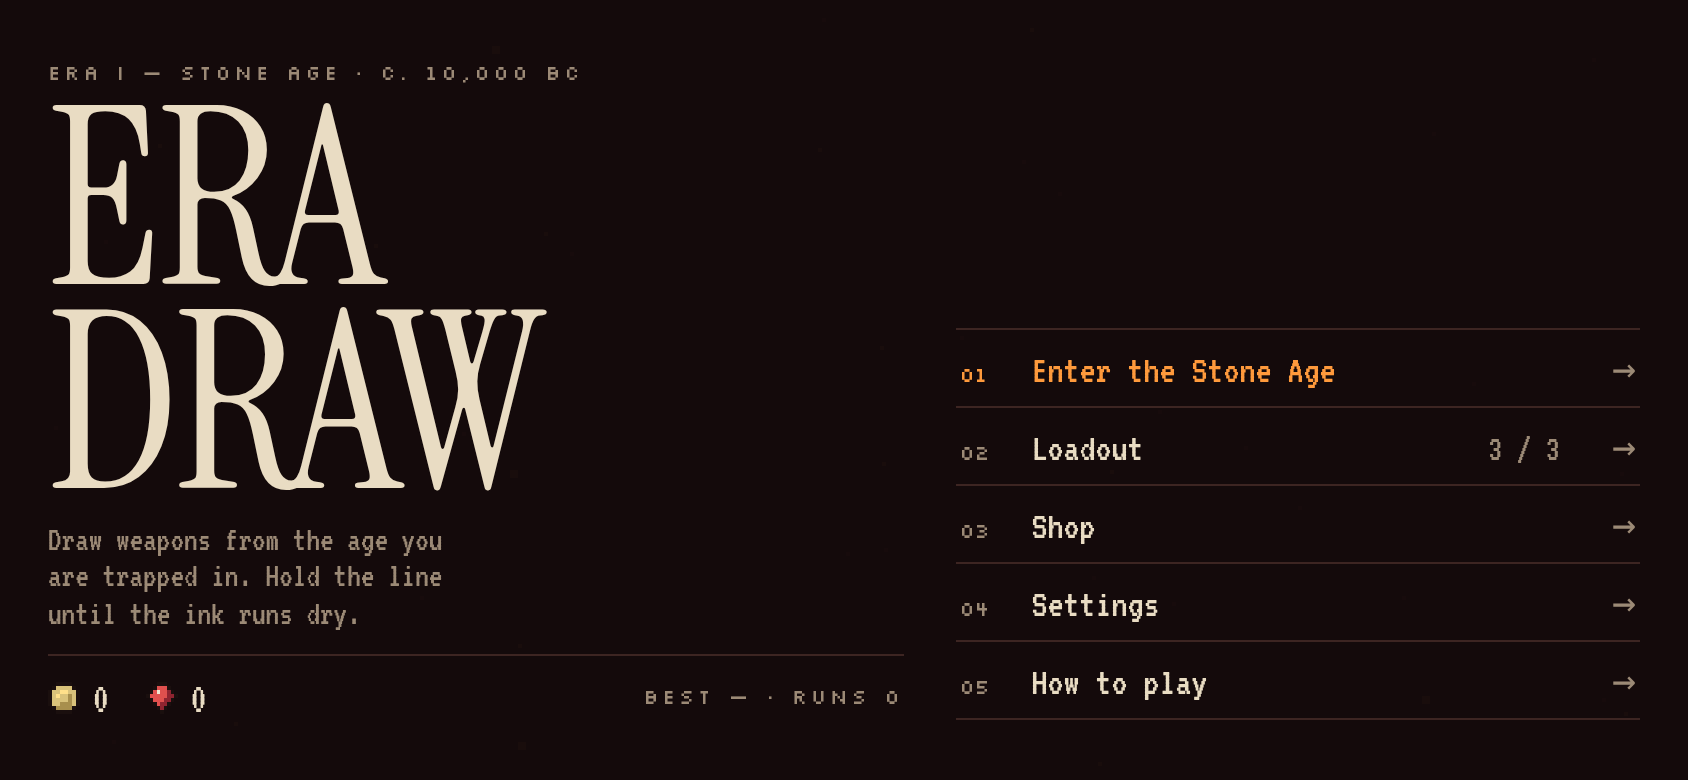
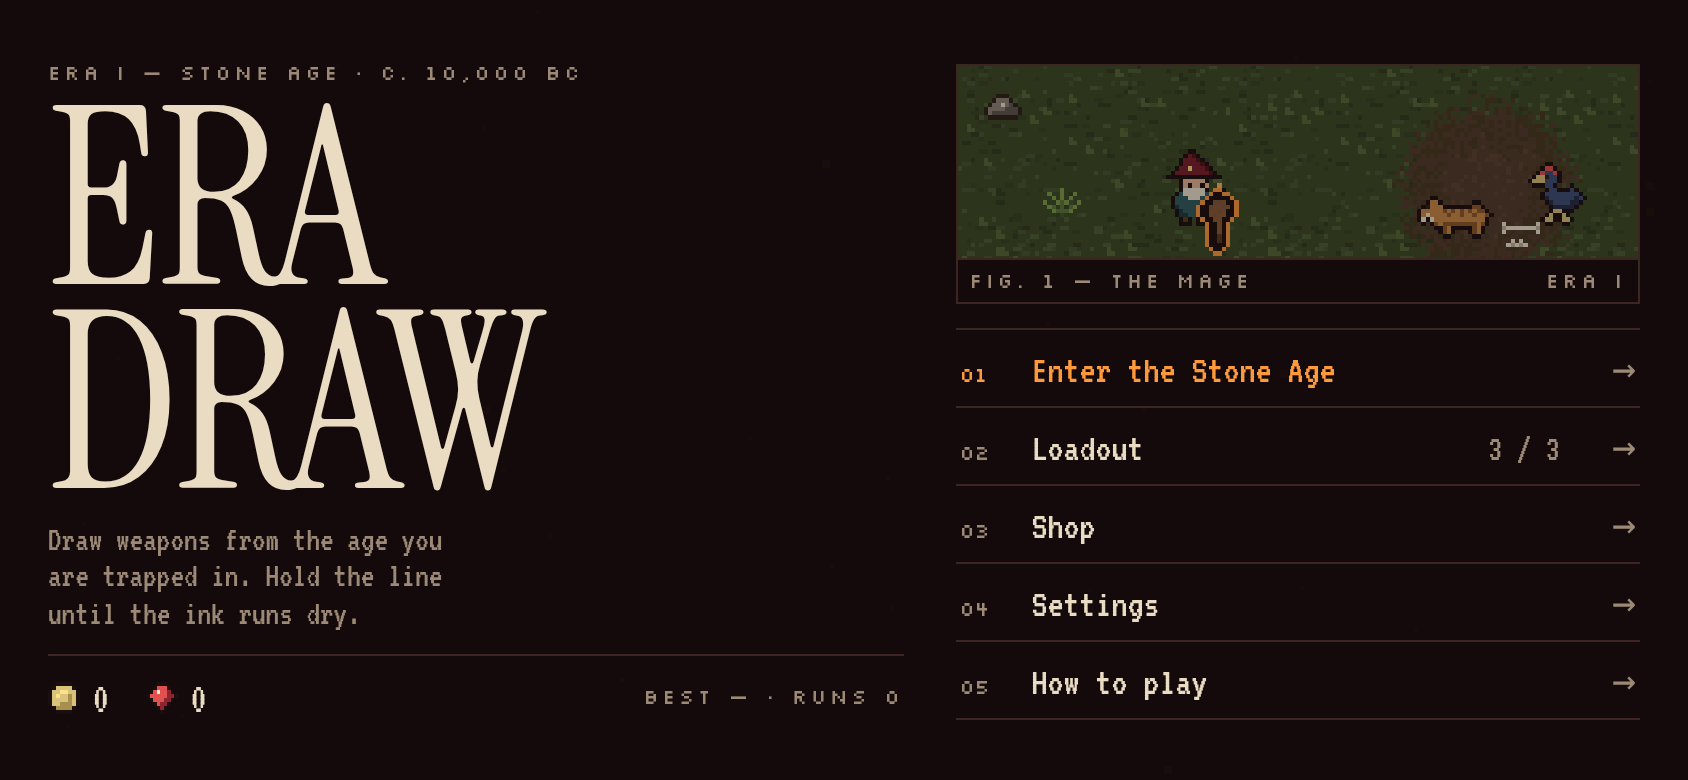
fix+polish: distinct terror bird plumage and striped sabertooth, merged/limited damage numbers, live chest coin popup, ink-ember draw strokes with labelled tag, level-up card motion, home diorama; balance: gentler spawn ramp, stronger ranged, bigger magnet; refreshed shots

Changed region(s): [[0.5545, 0.0615, 0.9858, 0.3692]]

diff --git a/game.js b/game.js
@@ -13,8 +13,8 @@ const CURRENT_ERA = 'stone';
 // shape: how to draw it. life = seconds before breaking, uses = hits before breaking
 const CREATIONS = {
   club:  { name:'Club', icon:'🪵', era:'stone', shape:'short line', kind:'melee', dmg:14, life:9,  uses:30, rate:0.55, range:70, knock:260, cost:0 },
-  spear: { name:'Spear', icon:'🗡', era:'stone', shape:'long line', kind:'ranged', dmg:16, life:10, uses:14, rate:0.9, speed:620, pierce:4, cost:0 },
-  rock:  { name:'Rock', icon:'🪨', era:'stone', shape:'circle', kind:'ranged', dmg:20, life:10, uses:10, rate:1.4, speed:380, aoe:70, cost:0 },
+  spear: { name:'Spear', icon:'🗡', era:'stone', shape:'long line', kind:'ranged', dmg:16, life:10, uses:16, rate:0.75, speed:620, pierce:4, cost:0 },
+  rock:  { name:'Rock', icon:'🪨', era:'stone', shape:'circle', kind:'ranged', dmg:20, life:10, uses:12, rate:1.15, speed:380, aoe:70, cost:0 },
   sling: { name:'Sling', icon:'🪃', era:'stone', shape:'V shape', kind:'ranged', dmg:7, life:11, uses:40, rate:0.28, speed:720, pierce:1, cost:150 },
   dagger:{ name:'Bone Dagger', icon:'🦴', era:'stone', shape:'zigzag', kind:'melee', dmg:8, life:10, uses:60, rate:0.22, range:46, knock:60, cost:250, orbitSpeed:5 },
 };
@@ -112,7 +112,7 @@ let mode='home';
 function newRun(){
   const era=ERAS[CURRENT_ERA];
   G={t:0,wave:1,kills:0,coins:0,spawnT:0,level:1,xp:0,xpNext:5,ink:[],trails:[],
-    player:{x:0,y:0,r:16,hp:100,maxHp:100,speed:190,dmgMul:1,cdMul:1,durMul:1,focus:BASE_FOCUS,homing:0,echo:0,magnet:90,secondWind:false,coinMul:1,caps:{...BASE_CAPS},usedWind:false,invul:0,face:0},
+    player:{x:0,y:0,r:16,hp:100,maxHp:100,speed:190,dmgMul:1,cdMul:1,durMul:1,focus:BASE_FOCUS,homing:0,echo:0,magnet:110,secondWind:false,coinMul:1,caps:{...BASE_CAPS},usedWind:false,invul:0,face:0},
     picks:{},dnums:[],chests:[],eshots:[],enemies:[],creations:[],shots:[],orbs:[],fx:[],texts:[],castCd:0,focusLeft:BASE_FOCUS,drawing:null,
     era, loadout:save.loadout.slice(),paused:false,shake:0,dbl:false};
 }
@@ -248,7 +248,9 @@ function updateShots(dt){
 function hurtEnemy(e,d){
   if(e.hp<=0)return;
   e.hp-=d;e.flash=0.1;sfx('hit');
-  G.dnums.push({x:e.x+rnd(-6,6),y:e.y-e.r*1.6,v:Math.max(1,Math.round(d)),big:d>=25,col:d>=25?'#ffe08a':'#fff6e0',life:.6,max:.6});if(G.dnums.length>120)G.dnums.shift();
+  const dv=Math.max(1,Math.round(d));const prev=e.dn&&e.dn.life>.3&&G.dnums.includes(e.dn)?e.dn:null;
+  if(prev){prev.v+=dv;prev.life=prev.max;prev.big=prev.v>=25;prev.col=prev.v>=25?'#ffe08a':'#fff6e0'}
+  else if(G.dnums.length<55||e.T.boss||dv>=25){e.dn={x:e.x+rnd(-6,6),y:e.y-e.r*1.6,v:dv,big:d>=25,col:d>=25?'#ffe08a':'#fff6e0',life:.6,max:.6};G.dnums.push(e.dn)}
   if(e.hp<=0)killEnemy(e);
 }
 function killEnemy(e){
@@ -272,7 +274,7 @@ function updateOrbs(dt){
   for(let i=G.orbs.length-1;i>=0;i--){const o=G.orbs[i];o.t+=dt;const d=Math.hypot(p.x-o.x,p.y-o.y);
     if(d<p.magnet||o.pull){o.pull=true;const a=Math.atan2(p.y-o.y,p.x-o.x),sp=300+o.t*200;o.x+=Math.cos(a)*sp*dt;o.y+=Math.sin(a)*sp*dt}
     if(d<p.r+6){G.orbs.splice(i,1);G.xp+=o.v;if(G.xp>=G.xpNext){G.xp-=G.xpNext;G.level++;G.xpNext=Math.round(5+G.level*3.2+Math.pow(G.level,1.5));levelUp()}}}
-  for(let i=G.chests.length-1;i>=0;i--){const c=G.chests[i];if(Math.hypot(c.x-p.x,c.y-p.y)<p.r+14){G.chests.splice(i,1);G.bonus=(G.bonus||0)+25;burst(c.x,c.y,'#d9c27a',24);toast('Chest! +25 coins');levelUp(true);return}}
+  for(let i=G.chests.length-1;i>=0;i--){const c=G.chests[i];if(Math.hypot(c.x-p.x,c.y-p.y)<p.r+14){G.chests.splice(i,1);G.bonus=(G.bonus||0)+25;floatText(p.x,p.y-40,'+25 COINS','#d9c27a',1.4);const rc=$('runcoins');rc.classList.remove('flash');void rc.offsetWidth;rc.classList.add('flash');burst(c.x,c.y,'#d9c27a',24);toast('Chest! +25 coins');levelUp(true);return}}
   if(G.orbs.length>250)G.orbs.splice(0,G.orbs.length-250);
 }
 function rollRarity(epicOk){
@@ -412,7 +414,12 @@ function render(dt){
   ctx.textAlign='center';
   for(const t of G.texts){ctx.globalAlpha=Math.min(1,t.life/t.max*2);ctx.font=`${S*5}px Silkscreen, monospace`;const sx=X(t.x)*S,sy=Y(t.y)*S;ctx.fillStyle='#1a0f0e';ctx.fillText(t.txt,sx+S,sy+S);ctx.fillStyle=t.col;ctx.fillText(t.txt,sx,sy)}
   ctx.globalAlpha=1;
-  if(G.drawing){const id=recognize(G.drawing.pts);if(id){const l=G.drawing.pts[G.drawing.pts.length-1];ctx.font=`${S*5}px Silkscreen, monospace`;ctx.textAlign='left';ctx.fillStyle='#1a0f0e';ctx.fillText(CREATIONS[id].name.toUpperCase(),l.x+16+S,l.y-14+S);ctx.fillStyle='#fff1d0';ctx.fillText(CREATIONS[id].name.toUpperCase(),l.x+16,l.y-14)}}
+  if(G.drawing){const id=recognize(G.drawing.pts);const l=G.drawing.pts[G.drawing.pts.length-1];
+    const ok=id&&G.loadout.includes(id),txt=id?(ok?CREATIONS[id].name:CREATIONS[id].name+' (not equipped)').toUpperCase():'...';
+    ctx.font='11px Silkscreen, monospace';ctx.textAlign='left';const w=ctx.measureText(txt).width+(ok?30:12),x0=Math.min(W-w-8,l.x+18),y0=Math.max(8,l.y-36);
+    ctx.fillStyle='#1a0f0ee6';ctx.fillRect(x0,y0,w,22);ctx.fillStyle=ok?'#ff9a3c':'#5a3a30';ctx.fillRect(x0,y0+21,w,1);
+    if(ok){const im=SPR[id].r;ctx.drawImage(im,x0+4,y0+3,Math.round(im.width*16/im.height*.9),15)}
+    ctx.fillStyle=ok?'#fff1d0':'#9c8a76';ctx.fillText(txt,x0+(ok?26:6),y0+15)}
   // focus meter (bottom right)
   const fw=120,fx=W-fw-16,fy=H-20;
   ctx.fillStyle='#1a0f0e';ctx.fillRect(fx-2,fy-2,fw+4,10);ctx.fillStyle='#3a2622';ctx.fillRect(fx,fy,fw,6);ctx.fillStyle='#ff9a3c';ctx.fillRect(fx,fy,Math.round(fw*clamp(G.focusLeft/G.player.focus,0,1)),6);
@@ -491,10 +498,19 @@ function drawShot(s){
   bx.save();bx.translate(X(s.x),Y(s.y));if(s.id!=='rock')bx.rotate(Math.round(s.rot/(Math.PI/8))*(Math.PI/8));bx.drawImage(im,-(im.width>>1),-(im.height>>1));bx.restore();
 }
 function drawStroke(pts,col,a,live){
-  if(pts.length<2)return;bx.save();bx.globalAlpha=a;bx.lineCap='square';bx.lineJoin='miter';
-  bx.strokeStyle='#1a0f0e';bx.lineWidth=live?4:3+(1-a)*3;bx.beginPath();bx.moveTo(pts[0].x/S,pts[0].y/S);for(const q of pts)bx.lineTo(q.x/S,q.y/S);bx.stroke();
-  bx.strokeStyle=col;bx.lineWidth=live?2:1+(1-a)*2;bx.stroke();bx.restore();
+  if(pts.length<2)return;bx.save();bx.globalAlpha=a;bx.lineCap='round';bx.lineJoin='round';
+  const path=()=>{bx.beginPath();bx.moveTo(pts[0].x/S,pts[0].y/S);for(const q of pts)bx.lineTo(q.x/S,q.y/S)};
+  path();bx.strokeStyle='#1a0f0e';bx.lineWidth=live?6:5+(1-a)*3;bx.stroke();
+  bx.strokeStyle=live?'#c2501e':col;bx.lineWidth=live?4:3+(1-a)*2;bx.stroke();
+  bx.strokeStyle=live?'#ffb35c':'#ffe08a';bx.lineWidth=live?2:1;bx.stroke();
+  // ink beads along the stroke + hot tip
+  bx.fillStyle='#fff1d0';for(let i=0;i<pts.length;i+=4){const q=pts[i];bx.fillRect(Math.round(q.x/S),Math.round(q.y/S),1,1)}
+  if(live){const l=pts[pts.length-1],tx=Math.round(l.x/S),ty=Math.round(l.y/S),f=Math.floor(performance.now()/80)%2;
+    bx.fillStyle='#1a0f0e';bx.fillRect(tx-3,ty-3,7,7);bx.fillStyle='#ff9a3c';bx.fillRect(tx-2,ty-2,5,5);bx.fillStyle='#fff6e0';bx.fillRect(tx-1+f,ty-1,2,2);
+    if(Math.random()<.6&&G)G.fx.push({x:cam.x+(l.x/S-BW/2)*Z+rnd(-4,4),y:cam.y+(l.y/S-BH/2)*Z+rnd(-4,4),vx:rnd(-30,30),vy:rnd(-60,-10),life:rnd(.2,.45),max:.45,col:Math.random()<.5?'#ff9a3c':'#ffe08a',r:2})}
+  bx.restore();
 }
+
 // menu background: slow drifting embers on dark wine
 const motes=Array.from({length:40},()=>({x:Math.random(),y:Math.random(),s:rnd(.01,.03),h:Math.random()}));
 function drawMenuBg(dt){for(const m of motes){m.y-=m.s*dt;if(m.y<0)m.y=1;ctx.fillStyle=m.h>.6?'#ff9a3c55':'#7a1f2b88';const s=m.h>.8?4:2;ctx.fillRect(Math.round(m.x*W),Math.round(m.y*H),s,s)}}
@@ -541,14 +557,26 @@ function home(){
     <h1 class="mast">Era<br>Draw</h1>
     <p class="tag">Draw weapons from the age you are trapped in. Hold the line until the ink runs dry.</p>
     <div class="wallet">${coinI()}<b>${save.coins}</b>${gemI()}<b>${save.gems}</b><span class="lab">Best ${save.best?fmt(save.best):'&mdash;'} &middot; Runs ${save.runs}</span></div></div>
-   <nav class="menu home-r">
+   <div class="home-r"><div class="plate"><canvas id="diorama" width="160" height="48"></canvas><div class="cap"><span class="lab">Fig. 1 &mdash; The mage</span><span class="lab">Era I</span></div></div><nav class="menu">
     <button id="play" class="prim"><b>01</b>Enter the ${E.name}<i>&rarr;</i></button>
     <button id="lo"><b>02</b>Loadout<span>${save.loadout.length} / ${save.slots}</span><i>&rarr;</i></button>
     <button id="shop"><b>03</b>Shop<i>&rarr;</i></button>
     <button id="set"><b>04</b>Settings<i>&rarr;</i></button>
     <button id="how"><b>05</b>How to play<i>&rarr;</i></button>
-   </nav></div>`);
+   </nav></div></div>`);startDiorama();
   $('play').onclick=()=>{goLandscape();startRun()};$('lo').onclick=loadout;$('shop').onclick=shop;$('how').onclick=how;$('set').onclick=settings;
+}
+function startDiorama(){
+  const cv2=$('diorama');if(!cv2)return;const x=cv2.getContext('2d');x.imageSmoothingEnabled=false;let t0=performance.now();
+  const loop=now=>{if(!document.body.contains(cv2))return;const t=Math.max(0,(now-t0)/1000);
+    for(let i=0;i<160;i+=64)x.drawImage(SPR.tile,i,0);x.drawImage(SPR.dirt,100,6);x.drawImage(SPR.deco.fern,20,30);x.drawImage(SPR.deco.bones,128,38);x.drawImage(SPR.deco.rock1,6,8);
+    const m=SPR.mage[0].r;x.drawImage(m,48,22-(Math.floor(t*2)%2));
+    const ph=(t%3)/3;// club orbits
+    const cl=SPR.club.r;x.drawImage(cl,48+8+Math.round(Math.cos(t*2.2)*16)-4,30+Math.round(Math.sin(t*2.2)*8)-8);
+    const b=SPR.en.bird.frames[Math.floor(t*6)%2],bx2=150-((t*28)%110);x.drawImage(b.l,Math.round(bx2),24);
+    const sb=SPR.en.saber.frames[Math.floor(t*6)%2];x.drawImage(sb.l,Math.round(170-((t*20+50)%140)),32);
+    x.fillStyle='rgba(20,11,12,.35)';x.fillRect(0,0,160,48);
+    requestAnimationFrame(loop)};requestAnimationFrame(loop);
 }
 function sheet(title,lab,body,back='Back'){return `<div class="sheet"><header class="row"><span class="lab">${lab}</span><button class="lab back" id="back">&larr; ${back}</button></header><h2 class="disp">${title}</h2>${body}</div>`}
 function settings(){
@@ -631,5 +659,5 @@ function endRun(){
 }
 
 // expose for tests
-window.EraDraw={mouse,kiteVector,recognize,get G(){return G},get mode(){return mode},startRun,save:()=>save,spawnCreation,ERAS,CREATIONS};
+window.EraDraw={step:(a,b)=>step(a,b),mouse,kiteVector,recognize,get G(){return G},get mode(){return mode},startRun,save:()=>save,spawnCreation,ERAS,CREATIONS};
 home();checkOrientation();requestAnimationFrame(frame);

diff --git a/enemies.js b/enemies.js
@@ -8,10 +8,10 @@ SPR.en.insect=enSet([
 ['WW.WW.','.GGGGi','GGGGG.','.G.G..'],
 ['......','WGGGGi','GGGGG.','G...G.']].map(f=>f.map(r=>r.replace(/W/g,'w'))));
 SPR.en.bird=enSet(LEG([
-'......mm..','.....fffaa','.....fifaaa','.....fff..','....ff....','.fffffff..','ffFfffff..','.FFFffF...'],
-['...a..a...','...a..a...','..aa.aa...'],['....aa....','...a..a...','..aa..aa..']));
+'.......mm..','......mjjm.','......jjiaa','......jjjaaa','.......jj...','..j...jj....','.jjjjjjjj...','jJjjjjjjJ...','.JJjjjjJ....','..JJJJJ.....'],
+['....a..a....','....a..a....','...aa.aa....'],['.....aa.....','....a..a....','...aa..aa...']));
 SPR.en.saber=enSet(LEG([
-'............ff..','...........fffi.','FF.ffffffffffffff','.FfffFfffFfffffw.','..fffffffffffff..','..FfFFFFFFFFfF...'],
+'.............ff..','...FF.......fffi.','..FFfFfFfFfFfffff','.FffFffFffFffffwf','..ffffffffffffw.w','..FfFFFFFFFFfF...'],
 ['..F.f......F.f...','..F.f......F.f...'],['...fF.....fF.....','...fF.....fF.....']));
 SPR.en.caveman=enSet(LEG([
 '...cccc...','..cssssc..','..csisic..','..cssss...','...ss..tt.','.FFFFFFstt','sFFFFFF...','s.FFFF....','..FFFF....'],
@@ -35,7 +35,7 @@ SPR.en.shaman=enSet(LEG([
 // behavior: chase | swarm | lunge | thrower | charge | shaman
 const ENEMY_TYPES={
   insect: {name:'Giant Gnat',  spr:'insect', r:7, hp:6,  speed:92, dmg:4, xp:1,col:'#3f5a28',beh:'swarm'},
-  bird:   {name:'Terror Bird', spr:'bird',   r:10,hp:12, speed:122,dmg:6, xp:1,col:'#c98a45',beh:'chase',min:30},
+  bird:   {name:'Terror Bird', spr:'bird',   r:10,hp:12, speed:122,dmg:6, xp:1,col:'#3d4f78',beh:'chase',min:30},
   saber:  {name:'Sabertooth',  spr:'saber',  r:13,hp:32, speed:68, dmg:12,xp:2,col:'#c98a45',beh:'lunge',min:70},
   caveman:{name:'Rival Caveman',spr:'caveman',r:11,hp:24,speed:62, dmg:8, xp:2,col:'#7b5a44',beh:'thrower',min:90},
   bear:   {name:'Cave Bear',   spr:'bear',   r:17,hp:120,speed:36, dmg:18,xp:5,col:'#7b5a44',beh:'chase',min:120},
@@ -62,8 +62,8 @@ function spawnEnemy(type,scale,at){
 function updateSpawns(dt){
   G.wave=1+Math.floor(G.t/30);
   const scale=1+G.t/100;
-  G.spawnT+=dt*(1.2+G.t/9);
-  const cap=Math.min(ENEMY_CAP,50+G.wave*22);
+  G.spawnT+=dt*(1+G.t/13);
+  const cap=Math.min(ENEMY_CAP,45+G.wave*18);
   while(G.spawnT>=1){G.spawnT-=1;if(G.enemies.length>=cap)break;
     const r=Math.random(),t=G.t;let type='insect';
     if(t>150&&r<.05)type='rhino';else if(t>120&&r<.12)type='bear';else if(t>90&&r<.2)type='caveman';else if(t>70&&r<.32)type='saber';else if(t>30&&r<.55)type='bird';

diff --git a/style.css b/style.css
@@ -130,3 +130,17 @@ img{image-rendering:pixelated}
  .build li,.stats li{font-size:16px;padding:2px 0}
 }
 @media (max-width:700px){.home{grid-template-columns:1fr 1fr;gap:18px}.tbl{grid-template-columns:repeat(5,1fr)}.cell .st{display:none}}
+
+#runcoins.flash{animation:cflash .9s steps(4)}@keyframes cflash{0%,50%{color:#ffe08a;transform:scale(1.5)}100%{color:inherit;transform:none}}
+#runcoins{display:inline-block}
+
+.pick{animation:pk-in .28s steps(4) both}.pick:nth-child(2){animation-delay:.07s}.pick:nth-child(3){animation-delay:.14s}
+@keyframes pk-in{from{transform:translateY(14px);opacity:0}to{transform:none;opacity:1}}
+.pick:hover .ic,.pick:active .ic{border-color:var(--rc)}
+.pick .ic{border-color:var(--rc)}
+.pick:after{content:'';position:absolute;right:8px;bottom:8px;width:6px;height:6px;background:var(--rc)}
+.r-epic .pk-name{color:var(--gold)}
+.plate{border:1px solid var(--rule);margin-bottom:12px;position:relative}
+.plate canvas{position:static;display:block;width:100%;height:auto;image-rendering:pixelated}
+.plate .cap{display:flex;justify-content:space-between;padding:4px 6px;border-top:1px solid var(--rule)}
+@media (max-height:500px){.plate canvas{max-height:96px;object-fit:cover}}

diff --git a/sprites.js b/sprites.js
@@ -24,6 +24,7 @@ const PAL = {
   a:'#d9c27a', A:'#a88f4d', // gold
   i:'#27201c', // dark detail
   u:'#a14d9c',  // shaman paint
+  j:'#3d4f78', J:'#232c47', // terror bird plumage
 };
 const SPR = {};
 function mk(w,h){const c=document.createElement('canvas');c.width=w;c.height=h;const x=c.getContext('2d');x.imageSmoothingEnabled=false;return [c,x]}
